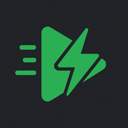
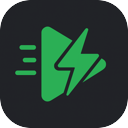
feat: add global support outside australia
- Expanded domain coverage from 6 to 50+ international Echo360 domains
- Added support for .edu, .ca, .ac.uk and 45+ country-specific TLDs
- Applied 30px border radius to all icon assets for modern look
- Updated version to 1.2
- Changed description from Australian-specific to worldwide support

diff --git a/README.md b/README.md
@@ -2,9 +2,9 @@
 
 [![License: MIT](https://img.shields.io/badge/License-MIT-green.svg)](https://opensource.org/licenses/MIT)
 [![Chrome Web Store](https://img.shields.io/badge/Chrome-Extension-green)](https://chrome.google.com/webstore)
-[![Version](https://img.shields.io/badge/version-1.0.0-blue.svg)](https://github.com/yourusername/echo360-speed-control/releases)
+[![Version](https://img.shields.io/badge/version-1.2.0-blue.svg)](https://github.com/WeiChongDevelops/echo360-speed-control/releases)
 
-The majority of Australian universities use Echo360 for lecture recordings, and have aggressive prevention systems for speed control blockers, so I made a Chrome extension that bypasses it.
+Universities worldwide use Echo360 for lecture recordings with aggressive prevention systems for speed control. This Chrome extension bypasses those restrictions, supporting Echo360 domains globally including .com, .net, .org, .edu, and 45+ country-specific TLDs.
 
 ## Chrome Web Store
 
